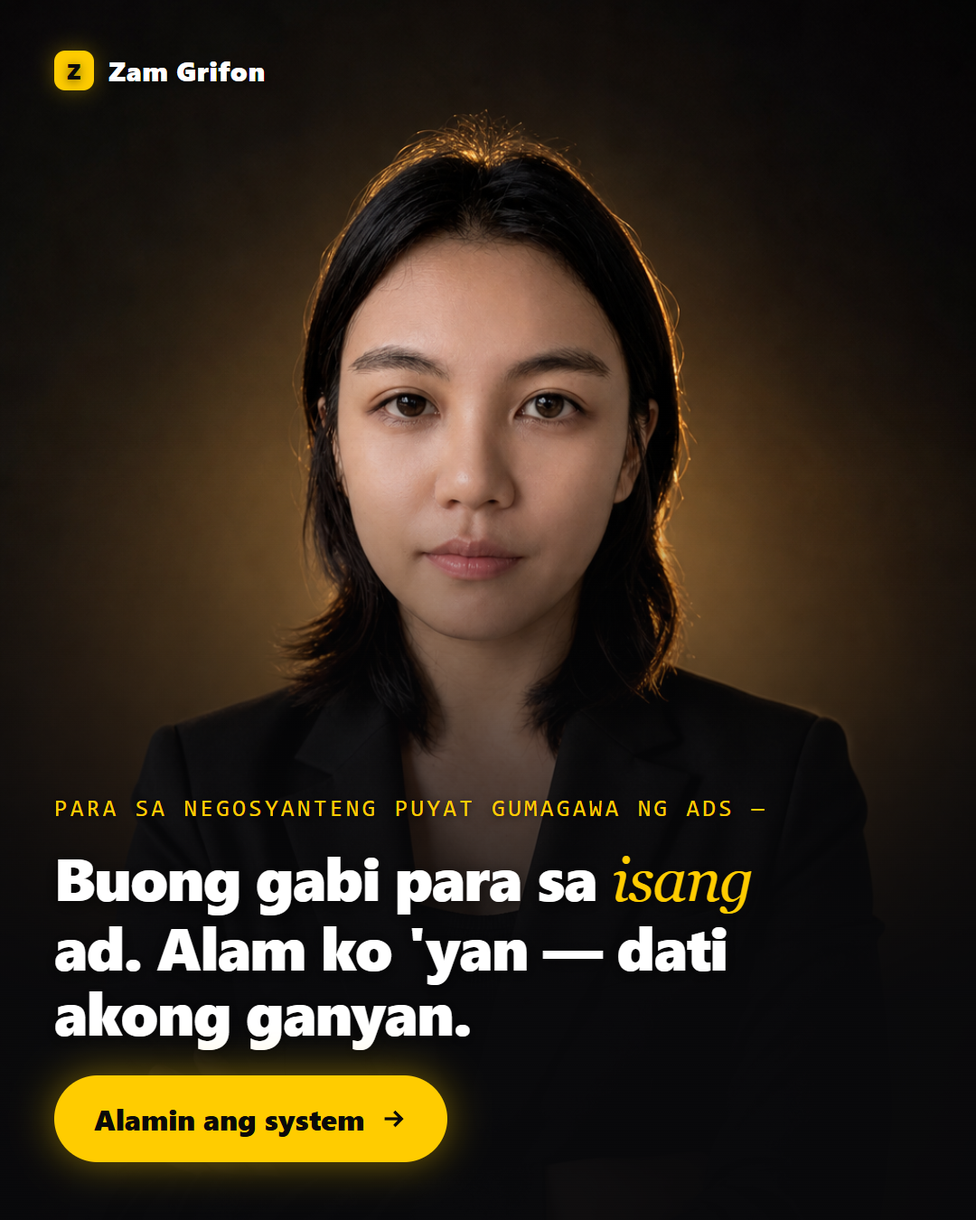
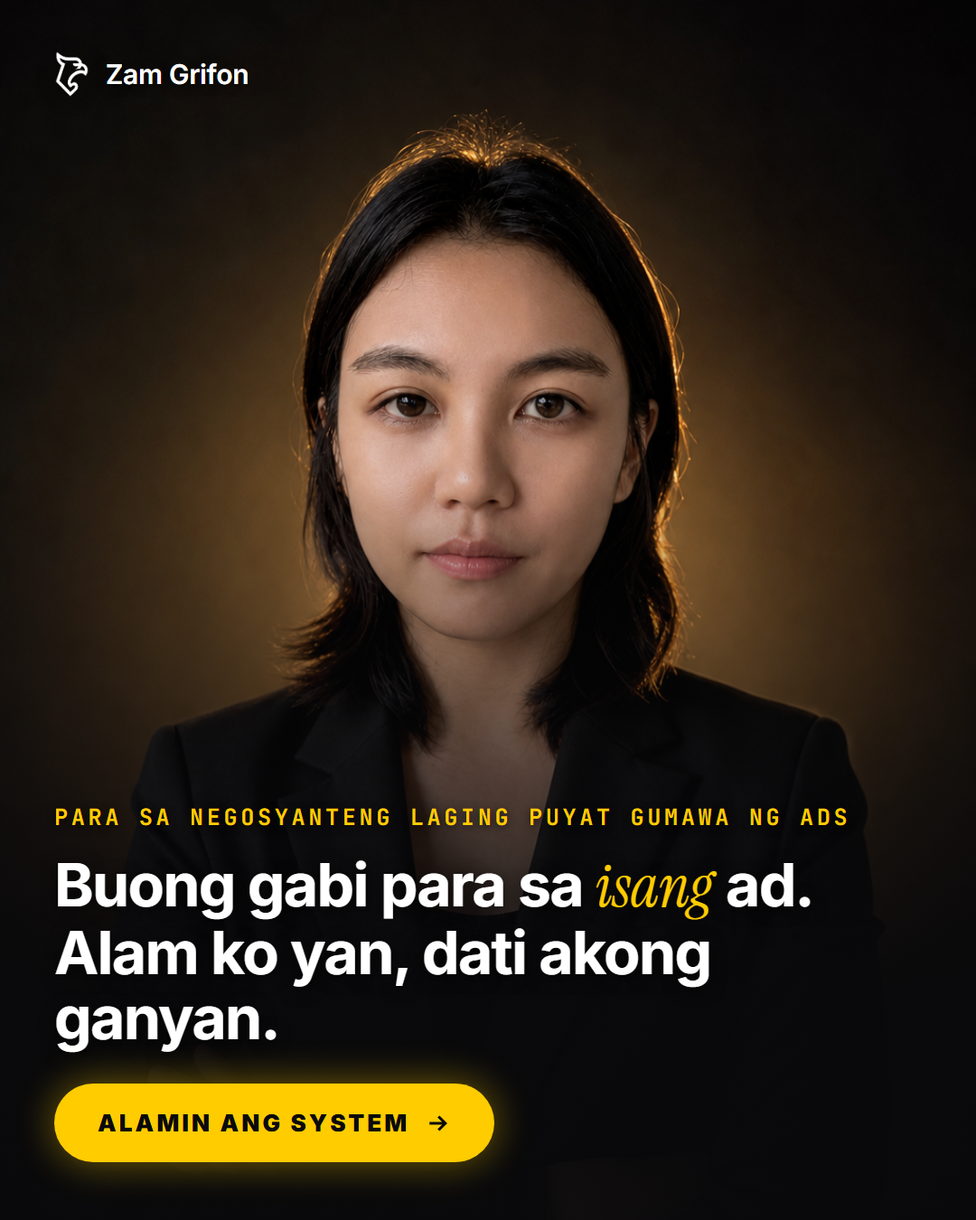
samples(ad): v3 — Neil copy fixes + design-system compliance
Grammar per Neil (bumebenta / laging puyat / business niche headline), AI-tell
scrub (no em-dash, no curly quotes), Bisaya removed from language ad (not a
shipped One-Shot option, trust line), real griffin logo lockup + GRIFON AI
wordmark, DESIGN.md fonts (Inter 700 headlines, JetBrains Mono labels,
Instrument Serif serif-accent), goldButton uppercase pill CTAs. render.mjs
included (playwright element-screenshot, DPR pinned to 1).

Changed region(s): [[0.0611, 0.6533, 0.825, 0.9644], [0.0306, 0.0311, 0.275, 0.0933], [0.825, 0.6533, 0.8861, 0.6844]]

diff --git a/assets/ad-samples/ready/ad-g1-uihero.html b/assets/ad-samples/ready/ad-g1-uihero.html
@@ -1,34 +1,37 @@
 <!doctype html>
-<html><head><meta charset="utf-8"><style>
+<html><head><meta charset="utf-8">
+<link rel="preconnect" href="https://fonts.googleapis.com"><link rel="preconnect" href="https://fonts.gstatic.com" crossorigin>
+<link href="https://fonts.googleapis.com/css2?family=Inter:wght@400;600;700;900&family=JetBrains+Mono:wght@600&family=Instrument+Serif:ital@1&display=swap" rel="stylesheet">
+<style>
   :root{--gold:#FFCC00;--ground:#09090B;--w:#FFF;--z3:#D4D4D8;--z4:#A1A1AA;--z5:#71717A;
     --line:rgba(255,255,255,.12);--panel:rgba(24,24,27,.86);
-    --sans:"Segoe UI",-apple-system,system-ui,Roboto,sans-serif;
-    --mono:"Cascadia Code","JetBrains Mono",ui-monospace,monospace;
-    --serif:Georgia,"Times New Roman",serif}
+    --sans:'Inter','Segoe UI',system-ui,sans-serif;
+    --mono:'JetBrains Mono','Cascadia Code',monospace;
+    --serif:'Instrument Serif',Georgia,serif}
   *{box-sizing:border-box;margin:0}
   html,body{width:1080px;height:1350px;overflow:hidden;background:var(--ground);font-family:var(--sans);-webkit-font-smoothing:antialiased}
   .ad{position:relative;width:1080px;height:1350px;background:var(--ground);overflow:hidden}
   .spot{position:absolute;inset:0;background:radial-gradient(90% 60% at 50% 20%,rgba(255,204,0,.14),transparent 60%)}
   .pad{position:absolute;inset:0;display:flex;flex-direction:column;padding:64px 64px 60px}
-  .hook{font-family:var(--mono);font-size:25px;letter-spacing:.15em;text-transform:uppercase;color:var(--gold);text-align:center;line-height:1.5}
-  .hl{font-size:60px;line-height:1.12;font-weight:800;color:var(--w);letter-spacing:-.02em;text-align:center;margin:18px auto 40px;max-width:20ch}
-  .acc{font-family:var(--serif);font-style:italic;font-weight:400;color:var(--gold)}
+  .hook{font-family:var(--mono);font-weight:600;font-size:24px;letter-spacing:.15em;text-transform:uppercase;color:var(--gold);text-align:center;line-height:1.5}
+  .hl{font-weight:700;font-size:60px;line-height:1.14;color:var(--w);letter-spacing:-.025em;text-align:center;margin:18px auto 40px;max-width:21ch}
+  .acc{font-family:var(--serif);font-style:italic;font-weight:400;color:var(--gold);letter-spacing:0}
   .glass{background:var(--panel);border:1px solid var(--line);border-radius:28px;padding:32px;box-shadow:0 30px 80px -30px rgba(0,0,0,.9)}
-  .label{font-family:var(--mono);font-size:20px;letter-spacing:.2em;text-transform:uppercase;color:var(--z5);margin-bottom:18px}
+  .label{font-family:var(--mono);font-weight:600;font-size:19px;letter-spacing:.15em;text-transform:uppercase;color:var(--z5);margin-bottom:18px}
   .field{display:flex;align-items:center;gap:14px;background:#0d0d0f;border:1px solid var(--line);border-radius:20px;padding:26px 28px;font-size:29px;color:var(--z3)}
   .cur{width:3px;height:34px;background:var(--gold)}
-  .genbtn{margin-top:20px;width:100%;background:var(--gold);color:#0A0A0A;font-weight:800;font-size:28px;border-radius:18px;padding:22px;text-align:center;box-shadow:0 0 34px rgba(255,204,0,.32)}
+  .genbtn{margin-top:20px;width:100%;background:var(--gold);color:#0A0A0A;font-weight:900;font-size:25px;text-transform:uppercase;letter-spacing:.12em;border-radius:999px;padding:24px;text-align:center;box-shadow:0 0 34px rgba(255,204,0,.32)}
   .arrow{display:grid;place-items:center;color:var(--gold);font-size:38px;margin:18px 0 14px;font-weight:700}
   .out{display:flex;gap:16px}
   .frame{flex:1;aspect-ratio:9/13;border-radius:16px;border:1px solid var(--line);background:linear-gradient(160deg,#1c1c20,#0f0f11);position:relative;overflow:hidden}
-  .frame .pn{position:absolute;top:12px;left:14px;font-family:var(--mono);font-size:16px;letter-spacing:.12em;text-transform:uppercase;color:var(--gold);z-index:3;text-shadow:0 1px 6px rgba(0,0,0,.9)}
+  .frame .pn{position:absolute;top:12px;left:14px;font-family:var(--mono);font-weight:600;font-size:15px;letter-spacing:.15em;text-transform:uppercase;color:var(--gold);z-index:3;text-shadow:0 1px 6px rgba(0,0,0,.9)}
   .frame img{position:absolute;inset:0;width:100%;height:100%;object-fit:cover;z-index:1}
   .frame .dk{position:absolute;inset:0;z-index:2;background:linear-gradient(to bottom,rgba(9,9,11,.55),transparent 40%)}
   .script{padding:52px 18px 14px;display:flex;flex-direction:column;gap:11px}
   .sline{height:11px;border-radius:6px;background:rgba(255,255,255,.16)}
   .sline.g{background:rgba(255,204,0,.55);width:62%}
   .sline.w1{width:92%}.sline.w2{width:78%}.sline.w3{width:85%}.sline.w4{width:58%}.sline.w5{width:88%}.sline.w6{width:70%}
-  .stxt{font-family:var(--mono);font-size:15.5px;line-height:1.55;color:var(--z4);margin-top:6px}
+  .stxt{font-family:var(--mono);font-weight:600;font-size:15px;line-height:1.55;color:var(--z4);margin-top:6px}
   .board{position:absolute;inset:0;padding:50px 14px 14px;display:grid;grid-template-rows:1fr 1fr 1fr;gap:10px;z-index:1}
   .cell{border-radius:10px;overflow:hidden;position:relative;border:1px solid var(--line)}
   .cell img{width:100%;height:100%;object-fit:cover;display:block}
@@ -36,19 +39,20 @@
   .cell:nth-child(2) img{object-position:50% 55%}
   .cell:nth-child(3) img{object-position:50% 95%}
   .foot{display:flex;align-items:center;justify-content:space-between;margin-top:auto}
-  .brandmark{display:flex;align-items:center;gap:15px;font-weight:800;color:var(--w);font-size:29px;letter-spacing:.03em}
-  .dot{width:42px;height:42px;border-radius:12px;background:var(--gold);display:grid;place-items:center;color:#0A0A0A;font-size:23px;font-weight:900;box-shadow:0 0 22px rgba(255,204,0,.35)}
-  .cta{display:inline-flex;align-items:center;background:var(--gold);color:#0A0A0A;font-weight:800;font-size:29px;padding:22px 40px;border-radius:999px;box-shadow:0 0 40px rgba(255,204,0,.42)}
+  .lockup{display:flex;align-items:center;gap:16px}
+  .lockup img{height:48px;width:auto}
+  .lockup span{font-weight:700;color:var(--w);font-size:28px;letter-spacing:.02em}
+  .cta{display:inline-flex;align-items:center;background:var(--gold);color:#0A0A0A;font-weight:900;font-size:24px;text-transform:uppercase;letter-spacing:.12em;padding:24px 42px;border-radius:999px;box-shadow:0 0 40px rgba(255,204,0,.42)}
 </style></head><body>
 <div class="ad">
   <div class="spot"></div>
   <div class="pad">
     <div class="hook">Ang unang all-in-one AI marketing sa PH</div>
-    <div class="hl">I-type ang negosyo mo. Kunin ang <span class="acc">buong ad.</span></div>
+    <div class="hl">I-type ang business niche mo. Get your first <span class="acc">video ad!</span></div>
     <div class="glass">
       <div class="label">Director AI &middot; brief</div>
       <div class="field">Milk tea shop sa Cebu, bagong ube flavor<span class="cur"></span></div>
-      <div class="genbtn">Gumawa ng ad &#9656;</div>
+      <div class="genbtn">Gumawa ng ad</div>
       <div class="arrow">&#8595;</div>
       <div class="out">
         <div class="frame">
@@ -56,7 +60,7 @@
           <div class="script">
             <div class="sline g"></div>
             <div class="sline w1"></div><div class="sline w2"></div><div class="sline w3"></div>
-            <div class="stxt">"Bagong UBE overload —<br>Cebu, para sa'yo 'to."</div>
+            <div class="stxt">Bagong UBE overload. Cebu, para sa'yo 'to.</div>
             <div class="sline w4"></div><div class="sline w5"></div><div class="sline w6"></div>
           </div>
         </div>
@@ -76,7 +80,7 @@
       </div>
     </div>
     <div class="foot">
-      <div class="brandmark"><span class="dot">G</span> GRIFON AI</div>
+      <div class="lockup"><img src="logo.png" alt=""><span>GRIFON AI</span></div>
       <a class="cta">Simulan nang libre</a>
     </div>
   </div>

diff --git a/assets/ad-samples/ready/ad-g3-language.html b/assets/ad-samples/ready/ad-g3-language.html
@@ -1,45 +1,58 @@
 <!doctype html>
-<html><head><meta charset="utf-8"><style>
+<html><head><meta charset="utf-8">
+<link rel="preconnect" href="https://fonts.googleapis.com"><link rel="preconnect" href="https://fonts.gstatic.com" crossorigin>
+<link href="https://fonts.googleapis.com/css2?family=Inter:wght@400;600;700;900&family=JetBrains+Mono:wght@600&family=Instrument+Serif:ital@1&display=swap" rel="stylesheet">
+<style>
   :root{--gold:#FFCC00;--ground:#09090B;--w:#FFF;--z3:#D4D4D8;--z4:#A1A1AA;--z5:#71717A;
     --line:rgba(255,255,255,.12);--panel:rgba(24,24,27,.86);
-    --sans:"Segoe UI",-apple-system,system-ui,Roboto,sans-serif;
-    --mono:"Cascadia Code","JetBrains Mono",ui-monospace,monospace;
-    --serif:Georgia,"Times New Roman",serif}
+    --sans:'Inter','Segoe UI',system-ui,sans-serif;
+    --mono:'JetBrains Mono','Cascadia Code',monospace;
+    --serif:'Instrument Serif',Georgia,serif}
   *{box-sizing:border-box;margin:0}
   html,body{width:1080px;height:1350px;overflow:hidden;background:var(--ground);font-family:var(--sans);-webkit-font-smoothing:antialiased}
   .ad{position:relative;width:1080px;height:1350px;background:var(--ground);overflow:hidden}
   .spot{position:absolute;inset:0;background:radial-gradient(90% 55% at 50% 18%,rgba(255,204,0,.12),transparent 60%)}
   .pad{position:absolute;inset:0;display:flex;flex-direction:column;padding:72px 64px 60px}
-  .hook{font-family:var(--mono);font-size:25px;letter-spacing:.15em;text-transform:uppercase;color:var(--gold);text-align:center;line-height:1.5}
-  .hl{font-size:72px;line-height:1.1;font-weight:800;color:var(--w);letter-spacing:-.02em;text-align:center;margin:20px auto 56px;max-width:16ch}
-  .acc{font-family:var(--serif);font-style:italic;font-weight:400;color:var(--gold)}
+  .hook{font-family:var(--mono);font-weight:600;font-size:24px;letter-spacing:.15em;text-transform:uppercase;color:var(--gold);text-align:center;line-height:1.5}
+  .hl{font-weight:700;font-size:76px;line-height:1.1;color:var(--w);letter-spacing:-.025em;text-align:center;margin:20px auto 52px;max-width:15ch}
+  .acc{font-family:var(--serif);font-style:italic;font-weight:400;color:var(--gold);letter-spacing:0}
   .glass{background:var(--panel);border:1px solid var(--line);border-radius:28px;padding:36px;box-shadow:0 30px 80px -30px rgba(0,0,0,.9)}
-  .label{font-family:var(--mono);font-size:20px;letter-spacing:.2em;text-transform:uppercase;color:var(--z5);margin-bottom:22px}
+  .label{font-family:var(--mono);font-weight:600;font-size:19px;letter-spacing:.15em;text-transform:uppercase;color:var(--z5);margin-bottom:22px}
   .chiprow{display:flex;gap:14px;margin-bottom:26px}
-  .chip{font-family:var(--mono);font-size:23px;letter-spacing:.08em;padding:14px 28px;border-radius:999px;border:1px solid var(--line);color:var(--z4)}
+  .chip{font-family:var(--mono);font-weight:600;font-size:23px;letter-spacing:.08em;padding:16px 32px;border-radius:999px;border:1px solid var(--line);color:var(--z4)}
   .chip.on{background:rgba(255,204,0,.13);border-color:rgba(255,204,0,.55);color:var(--gold);box-shadow:0 0 22px rgba(255,204,0,.18)}
-  .field{background:#0d0d0f;border:1px solid var(--line);border-radius:20px;padding:30px 32px;font-size:31px;line-height:1.5;color:var(--z3)}
+  .field{background:#0d0d0f;border:1px solid var(--line);border-radius:20px;padding:30px 32px;font-size:31px;line-height:1.5;color:var(--w)}
+  .field.dim{color:var(--z5);margin-top:18px}
+  .fl{font-family:var(--mono);font-weight:600;font-size:16px;letter-spacing:.15em;text-transform:uppercase;color:var(--gold);margin-bottom:10px}
+  .field.dim .fl{color:var(--z5)}
   .foot{display:flex;align-items:center;justify-content:space-between;margin-top:auto}
-  .brandmark{display:flex;align-items:center;gap:15px;font-weight:800;color:var(--w);font-size:29px;letter-spacing:.03em}
-  .dot{width:42px;height:42px;border-radius:12px;background:var(--gold);display:grid;place-items:center;color:#0A0A0A;font-size:23px;font-weight:900;box-shadow:0 0 22px rgba(255,204,0,.35)}
-  .cta{display:inline-flex;align-items:center;background:var(--gold);color:#0A0A0A;font-weight:800;font-size:29px;padding:22px 40px;border-radius:999px;box-shadow:0 0 40px rgba(255,204,0,.42)}
+  .lockup{display:flex;align-items:center;gap:16px}
+  .lockup img{height:48px;width:auto}
+  .lockup span{font-weight:700;color:var(--w);font-size:28px;letter-spacing:.02em}
+  .cta{display:inline-flex;align-items:center;background:var(--gold);color:#0A0A0A;font-weight:900;font-size:24px;text-transform:uppercase;letter-spacing:.12em;padding:24px 42px;border-radius:999px;box-shadow:0 0 40px rgba(255,204,0,.42)}
 </style></head><body>
 <div class="ad">
   <div class="spot"></div>
   <div class="pad">
     <div class="hook">Gawa para sa Pinoy na negosyante</div>
-    <div class="hl">Isang ad. English, Taglish, o <span class="acc">Bisaya.</span></div>
+    <div class="hl">Isang ad. English o <span class="acc">Taglish.</span></div>
     <div class="glass">
       <div class="label">Caption &amp; Headline &middot; language</div>
       <div class="chiprow">
         <span class="chip">English</span>
         <span class="chip on">Taglish</span>
-        <span class="chip">Bisaya</span>
       </div>
-      <div class="field">"Sawa ka nang mag-DIY ng ads? Grifon na — mabilis, mura, mabenta."</div>
+      <div class="field">
+        <div class="fl">Taglish</div>
+        Sawa ka na sa DIY ads? Grifon na. Mabilis, mura, at bumebenta.
+      </div>
+      <div class="field dim">
+        <div class="fl">English</div>
+        Tired of DIY ads? Switch to Grifon. Fast, affordable, and it sells.
+      </div>
     </div>
     <div class="foot">
-      <div class="brandmark"><span class="dot">G</span> GRIFON AI</div>
+      <div class="lockup"><img src="logo.png" alt=""><span>GRIFON AI</span></div>
       <a class="cta">Simulan nang libre</a>
     </div>
   </div>

diff --git a/assets/ad-samples/ready/ad-g2-blackcanvas.html b/assets/ad-samples/ready/ad-g2-blackcanvas.html
@@ -1,16 +1,19 @@
 <!doctype html>
-<html><head><meta charset="utf-8"><style>
-  :root{--gold:#FFCC00;--w:#FFF;--z3:#D4D4D8;--z4:#A1A1AA;--z5:#71717A;
+<html><head><meta charset="utf-8">
+<link rel="preconnect" href="https://fonts.googleapis.com"><link rel="preconnect" href="https://fonts.gstatic.com" crossorigin>
+<link href="https://fonts.googleapis.com/css2?family=Inter:wght@400;600;700;900&family=JetBrains+Mono:wght@600&family=Instrument+Serif:ital@1&display=swap" rel="stylesheet">
+<style>
+  :root{--gold:#FFCC00;--ground:#09090B;--w:#FFF;--z3:#D4D4D8;--z5:#71717A;
     --line:rgba(255,255,255,.12);--panel:rgba(24,24,27,.86);
-    --sans:"Segoe UI",-apple-system,system-ui,Roboto,sans-serif;
-    --mono:"Cascadia Code","JetBrains Mono",ui-monospace,monospace;
-    --serif:Georgia,"Times New Roman",serif}
+    --sans:'Inter','Segoe UI',system-ui,sans-serif;
+    --mono:'JetBrains Mono','Cascadia Code',monospace;
+    --serif:'Instrument Serif',Georgia,serif}
   *{box-sizing:border-box;margin:0}
-  html,body{width:1080px;height:1350px;overflow:hidden;background:#050506;font-family:var(--sans);-webkit-font-smoothing:antialiased}
-  .ad{position:relative;width:1080px;height:1350px;background:#050506;overflow:hidden}
+  html,body{width:1080px;height:1350px;overflow:hidden;background:var(--ground);font-family:var(--sans);-webkit-font-smoothing:antialiased}
+  .ad{position:relative;width:1080px;height:1350px;background:var(--ground);overflow:hidden}
   .pad{position:absolute;inset:0;display:flex;flex-direction:column;padding:64px;justify-content:center}
-  .tab-hl{font-size:104px;line-height:1.02;font-weight:900;color:var(--w);letter-spacing:-.03em;text-transform:uppercase}
-  .acc{font-family:var(--serif);font-style:italic;font-weight:400;color:var(--gold);text-transform:none}
+  .tab-hl{font-weight:700;font-size:100px;line-height:1.04;color:var(--w);letter-spacing:-.025em;text-transform:uppercase}
+  .acc{font-family:var(--serif);font-style:italic;font-weight:400;color:var(--gold);text-transform:none;letter-spacing:0}
   .glass{background:var(--panel);border:1px solid var(--line);border-radius:28px;padding:32px;margin:52px 0 0;box-shadow:0 30px 80px -30px rgba(0,0,0,.9)}
   .field{display:flex;align-items:center;gap:14px;background:#0d0d0f;border:1px solid var(--line);border-radius:20px;padding:26px 28px;font-size:29px;color:var(--z3)}
   .cur{width:3px;height:34px;background:var(--gold)}
@@ -21,17 +24,18 @@
   .frame.f1 img{object-position:50% 0%}
   .frame.f2 img{object-position:50% 50%}
   .frame.f3 img{object-position:50% 100%}
-  .frame .dk{position:absolute;inset:0;z-index:2;background:linear-gradient(to bottom,rgba(5,5,6,.6),transparent 42%)}
-  .frame .pn{position:absolute;top:12px;left:14px;font-family:var(--mono);font-size:16px;letter-spacing:.12em;text-transform:uppercase;color:var(--gold);z-index:3;text-shadow:0 1px 6px rgba(0,0,0,.9)}
+  .frame .dk{position:absolute;inset:0;z-index:2;background:linear-gradient(to bottom,rgba(9,9,11,.6),transparent 42%)}
+  .frame .pn{position:absolute;top:12px;left:14px;font-family:var(--mono);font-weight:600;font-size:15px;letter-spacing:.15em;text-transform:uppercase;color:var(--gold);z-index:3;text-shadow:0 1px 6px rgba(0,0,0,.9)}
   .foot{display:flex;align-items:center;justify-content:space-between;margin-top:56px}
-  .brandmark{display:flex;align-items:center;gap:15px;font-weight:800;color:var(--w);font-size:29px;letter-spacing:.03em}
-  .dot{width:42px;height:42px;border-radius:12px;background:var(--gold);display:grid;place-items:center;color:#0A0A0A;font-size:23px;font-weight:900;box-shadow:0 0 22px rgba(255,204,0,.35)}
-  .cta{display:inline-flex;align-items:center;gap:14px;background:transparent;color:var(--w);border:2px solid var(--line);font-weight:800;font-size:29px;padding:20px 40px;border-radius:999px}
+  .lockup{display:flex;align-items:center;gap:16px}
+  .lockup img{height:48px;width:auto}
+  .lockup span{font-weight:700;color:var(--w);font-size:28px;letter-spacing:.02em}
+  .cta{display:inline-flex;align-items:center;gap:14px;background:transparent;color:var(--w);border:2px solid var(--line);font-weight:900;font-size:24px;text-transform:uppercase;letter-spacing:.12em;padding:22px 42px;border-radius:999px}
   .cta svg{width:28px;height:28px;color:var(--gold)}
 </style></head><body>
 <div class="ad">
   <div class="pad">
-    <div class="tab-hl">Para sa ads<br>na talagang <span class="acc">benta.</span></div>
+    <div class="tab-hl">Para sa ads na talagang <span class="acc">bumebenta.</span></div>
     <div class="glass">
       <div class="field">Gumawa ng video ad para sa milk tea shop ko<span class="cur"></span></div>
       <div class="arrow">&#8595;</div>
@@ -42,7 +46,7 @@
       </div>
     </div>
     <div class="foot">
-      <div class="brandmark"><span class="dot">G</span> GRIFON AI</div>
+      <div class="lockup"><img src="logo.png" alt=""><span>GRIFON AI</span></div>
       <a class="cta">Try it free <svg viewBox="0 0 24 24" fill="none" stroke="currentColor" stroke-width="2.5"><path d="M5 12h14M13 6l6 6-6 6"/></svg></a>
     </div>
   </div>

diff --git a/assets/ad-samples/ready/ad-z1-authority.html b/assets/ad-samples/ready/ad-z1-authority.html
@@ -1,32 +1,38 @@
 <!doctype html>
-<html><head><meta charset="utf-8"><style>
-  :root{--gold:#FFCC00;--ground:#09090B;--w:#FFF;--z3:#D4D4D8;--z4:#A1A1AA;
-    --sans:"Segoe UI",-apple-system,system-ui,Roboto,sans-serif;
-    --mono:"Cascadia Code","JetBrains Mono",ui-monospace,monospace;
-    --serif:Georgia,"Times New Roman",serif}
+<html><head><meta charset="utf-8">
+<link rel="preconnect" href="https://fonts.googleapis.com"><link rel="preconnect" href="https://fonts.gstatic.com" crossorigin>
+<link href="https://fonts.googleapis.com/css2?family=Inter:wght@400;600;700;900&family=JetBrains+Mono:wght@600&family=Instrument+Serif:ital@1&display=swap" rel="stylesheet">
+<style>
+  :root{--gold:#FFCC00;--ground:#09090B;--w:#FFF;--z3:#D4D4D8;
+    --sans:'Inter','Segoe UI',system-ui,sans-serif;
+    --mono:'JetBrains Mono','Cascadia Code',monospace;
+    --serif:'Instrument Serif',Georgia,serif}
   *{box-sizing:border-box;margin:0}
   html,body{width:1080px;height:1350px;overflow:hidden;background:var(--ground);font-family:var(--sans);-webkit-font-smoothing:antialiased}
   .ad{position:relative;width:1080px;height:1350px;background:var(--ground);overflow:hidden}
   img.bg{position:absolute;inset:0;width:100%;height:100%;object-fit:cover;object-position:50% 18%}
   .scrim{position:absolute;inset:0;background:linear-gradient(to top,rgba(9,9,11,.96) 18%,rgba(9,9,11,.55) 40%,rgba(9,9,11,.08) 60%,transparent 75%)}
   .pad{position:absolute;inset:0;display:flex;flex-direction:column;padding:56px 60px 64px}
-  .brandmark{display:flex;align-items:center;gap:16px;font-weight:800;color:var(--w);font-size:30px;letter-spacing:.02em;text-shadow:0 2px 12px rgba(0,0,0,.6)}
-  .dot{width:44px;height:44px;border-radius:12px;background:var(--gold);display:grid;place-items:center;color:#0A0A0A;font-size:24px;font-weight:900;box-shadow:0 0 24px rgba(255,204,0,.35)}
+  .lockup{display:flex;align-items:center;gap:18px}
+  .lockup img{height:52px;width:auto;filter:drop-shadow(0 2px 10px rgba(0,0,0,.6))}
+  .lockup span{font-weight:600;color:var(--w);font-size:30px;letter-spacing:-.01em;text-shadow:0 2px 12px rgba(0,0,0,.6)}
   .spacer{flex:1}
-  .hook{font-family:var(--mono);font-size:26px;letter-spacing:.14em;text-transform:uppercase;color:var(--gold);line-height:1.5;text-shadow:0 2px 10px rgba(0,0,0,.7)}
-  .hl{font-size:66px;line-height:1.1;font-weight:800;color:var(--w);letter-spacing:-.02em;margin:20px 0 34px;max-width:22ch;text-shadow:0 3px 18px rgba(0,0,0,.65)}
-  .acc{font-family:var(--serif);font-style:italic;font-weight:400;color:var(--gold)}
-  .cta{align-self:flex-start;display:inline-flex;align-items:center;gap:16px;background:var(--gold);color:#0A0A0A;font-weight:800;font-size:32px;padding:26px 44px;border-radius:999px;box-shadow:0 0 44px rgba(255,204,0,.45)}
-  .cta svg{width:32px;height:32px}
+  .hook{font-family:var(--mono);font-weight:600;font-size:25px;letter-spacing:.15em;text-transform:uppercase;color:var(--gold);line-height:1.5;text-shadow:0 2px 10px rgba(0,0,0,.7)}
+  .hl{font-weight:700;font-size:66px;line-height:1.1;color:var(--w);letter-spacing:-.025em;margin:20px 0 36px;max-width:22ch;text-shadow:0 3px 18px rgba(0,0,0,.65)}
+  .acc{font-family:var(--serif);font-style:italic;font-weight:400;color:var(--gold);letter-spacing:0}
+  .cta{align-self:flex-start;display:inline-flex;align-items:center;gap:16px;background:var(--gold);color:#0A0A0A;
+    font-weight:900;font-size:26px;text-transform:uppercase;letter-spacing:.12em;
+    padding:28px 48px;border-radius:999px;box-shadow:0 0 44px rgba(255,204,0,.45)}
+  .cta svg{width:30px;height:30px}
 </style></head><body>
 <div class="ad">
   <img class="bg" src="zam-real-plate.png" alt="">
   <div class="scrim"></div>
   <div class="pad">
-    <div class="brandmark"><span class="dot">Z</span> Zam Grifon</div>
+    <div class="lockup"><img src="logo.png" alt=""><span>Zam Grifon</span></div>
     <div class="spacer"></div>
-    <div class="hook">Para sa negosyanteng puyat gumagawa ng ads —</div>
-    <div class="hl">Buong gabi para sa <span class="acc">isang</span> ad. Alam ko 'yan — dati akong ganyan.</div>
+    <div class="hook">Para sa negosyanteng laging puyat gumawa ng ads</div>
+    <div class="hl">Buong gabi para sa <span class="acc">isang</span> ad. Alam ko yan, dati akong ganyan.</div>
     <a class="cta">Alamin ang system <svg viewBox="0 0 24 24" fill="none" stroke="currentColor" stroke-width="2.5"><path d="M5 12h14M13 6l6 6-6 6"/></svg></a>
   </div>
 </div>

diff --git a/assets/ad-samples/ready/ad-z2-enemy.html b/assets/ad-samples/ready/ad-z2-enemy.html
@@ -1,30 +1,39 @@
 <!doctype html>
-<html><head><meta charset="utf-8"><style>
-  :root{--gold:#FFCC00;--ground:#09090B;--w:#FFF;--z3:#D4D4D8;--z4:#A1A1AA;--line:rgba(255,255,255,.12);
-    --sans:"Segoe UI",-apple-system,system-ui,Roboto,sans-serif;
-    --mono:"Cascadia Code","JetBrains Mono",ui-monospace,monospace;
-    --serif:Georgia,"Times New Roman",serif}
+<html><head><meta charset="utf-8">
+<link rel="preconnect" href="https://fonts.googleapis.com"><link rel="preconnect" href="https://fonts.gstatic.com" crossorigin>
+<link href="https://fonts.googleapis.com/css2?family=Inter:wght@400;600;700;900&family=JetBrains+Mono:wght@600&family=Instrument+Serif:ital@1&display=swap" rel="stylesheet">
+<style>
+  :root{--gold:#FFCC00;--ground:#09090B;--w:#FFF;--z3:#D4D4D8;--line:rgba(255,255,255,.12);
+    --sans:'Inter','Segoe UI',system-ui,sans-serif;
+    --mono:'JetBrains Mono','Cascadia Code',monospace;
+    --serif:'Instrument Serif',Georgia,serif}
   *{box-sizing:border-box;margin:0}
   html,body{width:1080px;height:1350px;overflow:hidden;background:var(--ground);font-family:var(--sans);-webkit-font-smoothing:antialiased}
   .ad{position:relative;width:1080px;height:1350px;background:var(--ground);overflow:hidden}
   .spot{position:absolute;inset:0;background:radial-gradient(130% 80% at 50% 0%,rgba(255,204,0,.12),transparent 55%)}
   .pad{position:absolute;inset:0;display:flex;flex-direction:column;padding:56px 64px 64px}
-  .brandmark{display:flex;align-items:center;gap:16px;font-weight:800;color:var(--w);font-size:30px;letter-spacing:.02em}
-  .dot{width:44px;height:44px;border-radius:12px;background:var(--gold);display:grid;place-items:center;color:#0A0A0A;font-size:24px;font-weight:900;box-shadow:0 0 24px rgba(255,204,0,.35)}
-  .spacer{flex:1}
-  .hl{font-size:88px;line-height:1.08;font-weight:800;color:var(--w);letter-spacing:-.025em;max-width:19ch}
-  .acc{font-family:var(--serif);font-style:italic;font-weight:400;color:var(--gold)}
-  .sub{font-size:36px;line-height:1.45;color:var(--z3);margin:38px 0 46px;max-width:34ch}
-  .cta{align-self:flex-start;display:inline-flex;align-items:center;gap:16px;background:transparent;color:var(--w);border:2px solid var(--line);font-weight:800;font-size:32px;padding:24px 44px;border-radius:999px}
-  .cta svg{width:32px;height:32px;color:var(--gold)}
+  .lockup{display:flex;align-items:center;gap:18px}
+  .lockup img{height:52px;width:auto}
+  .lockup span{font-weight:600;color:var(--w);font-size:30px;letter-spacing:-.01em}
+  .gap1{flex:0.75}.gap2{flex:1}
+  .hook{font-family:var(--mono);font-weight:600;font-size:25px;letter-spacing:.15em;text-transform:uppercase;color:var(--gold);line-height:1.5;margin-bottom:22px}
+  .hl{font-weight:700;font-size:88px;line-height:1.08;color:var(--w);letter-spacing:-.025em;max-width:19ch}
+  .acc{font-family:var(--serif);font-style:italic;font-weight:400;color:var(--gold);letter-spacing:0}
+  .sub{font-size:36px;line-height:1.45;color:var(--z3);margin:38px 0 0;max-width:34ch}
+  .cta{align-self:flex-start;display:inline-flex;align-items:center;gap:16px;background:transparent;color:var(--w);border:2px solid var(--line);
+    font-weight:900;font-size:26px;text-transform:uppercase;letter-spacing:.12em;
+    padding:26px 46px;border-radius:999px}
+  .cta svg{width:30px;height:30px;color:var(--gold)}
 </style></head><body>
 <div class="ad">
   <div class="spot"></div>
   <div class="pad">
-    <div class="brandmark"><span class="dot">Z</span> Zam Grifon</div>
-    <div class="spacer"></div>
+    <div class="lockup"><img src="logo.png" alt=""><span>Zam Grifon</span></div>
+    <div class="gap1"></div>
+    <div class="hook">Totoong usapan lang</div>
     <div class="hl">Bakit ka magbabayad ng <span class="acc">&#8369;30K</span> sa agency na 3 araw bago mag&#8209;reply?</div>
-    <p class="sub">Gawin mo mismo — mas mabilis, ikaw ang may kontrol. Ipapakita ko kung paano.</p>
+    <p class="sub">Gawin mo mismo. Mas mabilis, ikaw ang may kontrol. Ipapakita ko kung paano.</p>
+    <div class="gap2"></div>
     <a class="cta">Panoorin kung paano <svg viewBox="0 0 24 24" fill="none" stroke="currentColor" stroke-width="2.5"><path d="M5 12h14M13 6l6 6-6 6"/></svg></a>
   </div>
 </div>
